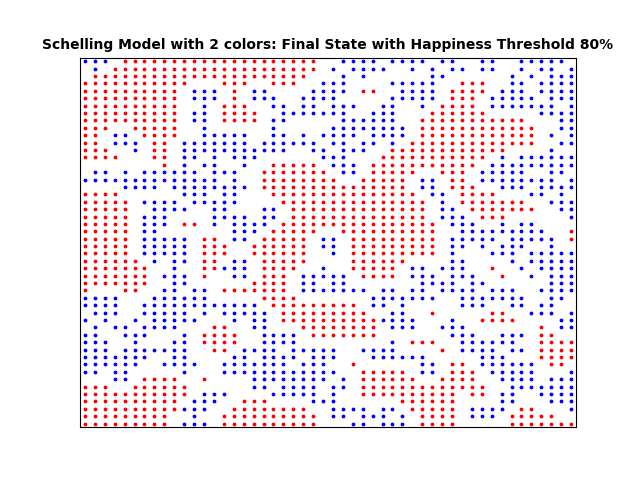
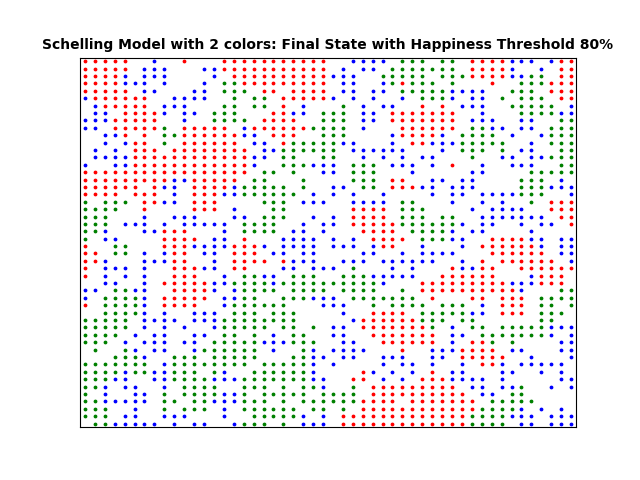
Adding program 2 to the github repo

Changed region(s): [[0.125, 0.125, 0.9062, 0.9062]]

diff --git a/Spring-2024/Multi-Agent-Systems/Program-2/Segregation.py b/Spring-2024/Multi-Agent-Systems/Program-2/Segregation.py
@@ -23,12 +23,14 @@ class Schelling:
         # self.similarity_threshold = similarity_threshold
         self.similarity_threshold = dict()
         self.n_iterations = n_iterations
-
+        # TODO: Add a feature where the similarity_threshold can be different for each of the colors
         for c in range(colors):
             self.similarity_threshold[c + 1] = similarity_threshold[c]
 
     def populate(self):
+        self.choices = {0: "empty_house", 1: "swap_house"}
         self.empty_houses = []
+        self.willing_to_swap = []
         self.agents = {}
         print("Populate ",  self.width ,  self.height)
         self.all_houses = list(itertools.product(range(self.width), range(self.height)))
@@ -103,34 +105,73 @@ class Schelling:
 
     def move_locations(self):
         total_distance=0
+        self.prev_temp_dict = dict()
         temp_dict = dict()
+        keep_iterating = True
         for i in range(self.n_iterations):
             self.old_agents = copy.deepcopy(self.agents)
             n_changes = 0
+            total = 0
+            satisfied = 0
+
             for agent in self.old_agents:
                 agent_color = self.agents[agent]
                 is_unsatisfied = self.is_unsatisfied(agent[0], agent[1])
                 if is_unsatisfied:
-                    empty_house = random.choice(self.empty_houses)
-                    self.agents[empty_house] = agent_color
-                    del self.agents[agent]
-                    self.empty_houses.remove(empty_house)
-                    self.empty_houses.append(agent)
-                    total_distance += abs(empty_house[0] - agent[0])+ abs(empty_house[1] - agent[1])
+                    choice = "empty_house"
+                    if len(self.willing_to_swap) > 2:
+                        choice = random.choice(self.choices)
+                    # TODO: Add a feature where agents can improve on their current location by performing a location swap with another agent who is willing to swap
+                    if choice == "swap_house":
+                        swapping_house_with = random.choice(self.willing_to_swap)
+                        swapping_agent_color = self.agents[swapping_house_with]
+                        if swapping_agent_color != agent_color:
+                            self.agents[swapping_house_with] = agent_color
+                            self.agents[agent] = swapping_agent_color
+                            total_distance += abs(swapping_house_with[0] - agent[0]) + abs(swapping_house_with[1] - agent[1])
+                            if not self.is_unsatisfied(swapping_house_with[0], swapping_house_with[1]):
+                                self.willing_to_swap.remove(swapping_house_with)
+                        else:
+                            choice = "empty_house"
+
+                    if choice == "empty_house":
+                        empty_house = random.choice(self.empty_houses)
+                        self.agents[empty_house] = agent_color
+                        del self.agents[agent]
+                        self.empty_houses.remove(empty_house)
+                        self.empty_houses.append(agent)
+                        total_distance += abs(empty_house[0] - agent[0]) + abs(empty_house[1] - agent[1])
+                        if self.is_unsatisfied(empty_house[0], empty_house[1]):
+                            self.willing_to_swap.append(empty_house)
+
                     n_changes += 1
                 # TODO: Add output to indicate the percentage of each agent type that meets the desired similarity_threshold
                 if agent_color not in temp_dict:
                     temp_dict[agent_color] = { "met_threshold": 0, "total": 0 }
                 temp_dict[agent_color]["total"] += 1
+                total += 1
                 if not is_unsatisfied:
                     temp_dict[agent_color]["met_threshold"] += 1
-
-            if i%30==0:
-                print('Iteration: %d , Color 1 Similarity Ratio: %3.2f, Color 2 Similarity Ratio: %3.2f. Number of changes: %d total distance: %d' %(i+1,self.similarity_threshold[1],self.similarity_threshold[2],n_changes,total_distance))
-
-                for color in temp_dict:
-                    print(f"\t{ str(round((temp_dict[color]['met_threshold']/temp_dict[color]['total']) * 100, 1)) }% of color { color } met the similarity threshold.")
-            if n_changes == 0:
+                    satisfied += 1
+            self.willing_to_swap.clear()
+            # TODO: Add a feature to stop when little progress is being made.  Print out a message to indicate how many iterations  you did.
+            if len(self.prev_temp_dict) > 0:
+                for color in self.prev_temp_dict:
+                    current_percentage = temp_dict[color]['met_threshold']/temp_dict[color]['total']
+                    prev_percentage = self.prev_temp_dict[color]['met_threshold']/self.prev_temp_dict[color]['total']
+                    if current_percentage - prev_percentage < 0.005:
+                        keep_iterating = False
+                        break
+            if keep_iterating:
+                if i%30==0:
+                    print('Iteration: %d. Number of changes: %d total distance: %d' %(i+1,n_changes,total_distance))
+                    for color in temp_dict:
+                        print(f"\tColor {color} Similarity Ratio: {self.similarity_threshold[color]}, { str(round((temp_dict[color]['met_threshold']/temp_dict[color]['total']) * 100, 1)) }% met the similarity threshold.")
+                        self.prev_temp_dict[color] = {"met_threshold": temp_dict[color]['met_threshold'], "total": temp_dict[color]['total']}
+                if n_changes == 0:
+                    break
+            else:
+                print("\t\tToo few changes. Number of iterations: " + str(i+1))
                 break
 
     # def move_to_empty(self, x, y):
@@ -213,17 +254,17 @@ class Schelling:
 
 def main():
     ##Starter Simulation
-    schelling_0 = Schelling(5, 5, 0.3, [0.3, 0.5], 200, 2)
+    schelling_0 = Schelling(5, 5, 0.3, [0.75, 0.5, .7], 200, 3)
     schelling_0.populate()
 
     ##First Simulation
-    schelling_1 = Schelling(50, 50, 0.3, [0.3, 0.8], 200, 2)
+    schelling_1 = Schelling(50, 50, 0.3, [0.5, 0.8, 0.25], 200, 3)
     schelling_1.populate()
 
-    schelling_2 = Schelling(50, 50, 0.3, [0.3, 0.5], 200, 2)
+    schelling_2 = Schelling(50, 50, 0.3, [0.35, 0.5, 0.6], 200, 3)
     schelling_2.populate()
 
-    schelling_3 = Schelling(50, 50, 0.3, [0.5, 0.8], 200, 2)
+    schelling_3 = Schelling(50, 50, 0.3, [0.25, 0.55, 0.45], 200, 3)
     schelling_3.populate()
 
     schelling_1.plot('Schelling Model with 2 colors: Initial State', 'files/schelling_2_initial.png')
